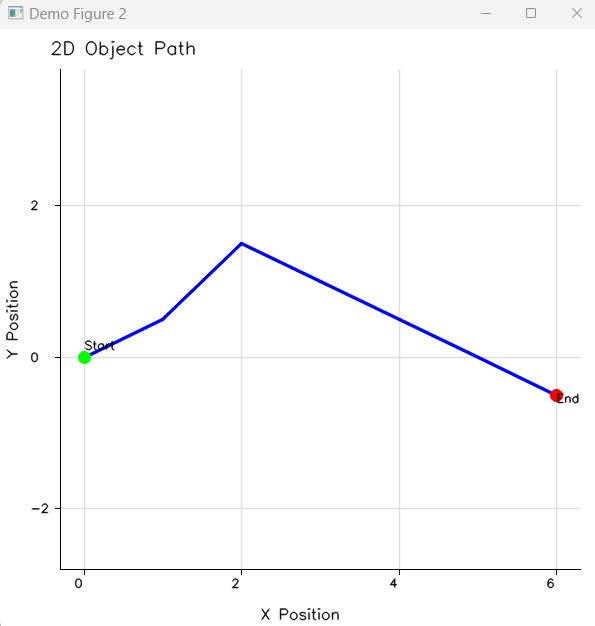
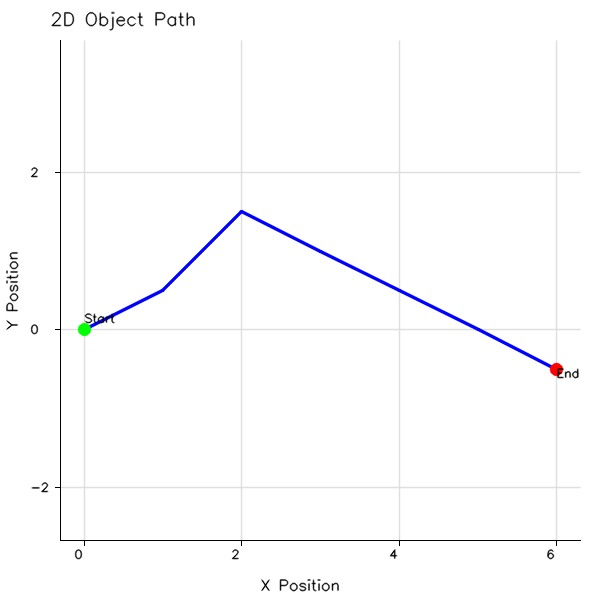
Prepare v0.1.0 release documentation
- document Windows and Linux test commands
- record known plotting limitations
- clarify public API behavior
- refresh example images from the current demo

diff --git a/include/figure.h b/include/figure.h
@@ -99,7 +99,8 @@ namespace mpocv
           * @param x Vector of x data values.
           * @param y Vector of y data values (must be the same length as @p x).
           * @param c Line color. Defaults to blue.
-          * @param thickness Line thickness in pixels.
+          * @param thickness Positive line thickness in pixels. Invalid values are
+          *        not currently validated before rendering.
           * @param label Optional legend label.
           * @throws std::invalid_argument If @p x and @p y have different lengths.
           * @throws std::invalid_argument If any coordinate is not finite.
@@ -119,7 +120,8 @@ namespace mpocv
          * @param x Vector of x data values.
          * @param y Vector of y data values (must be the same length as @p x).
          * @param c Line color. Defaults to blue.
-         * @param thickness Line thickness in pixels.
+         * @param thickness Positive line thickness in pixels. Invalid values are
+         *        not currently validated before rendering.
          * @param label Optional legend label.
          * @throws std::invalid_argument If @p x and @p y have different lengths.
          * @throws std::invalid_argument If any coordinate is not finite.
@@ -138,7 +140,8 @@ namespace mpocv
          * @param x Vector of x data values.
          * @param y Vector of y data values (must be the same length as @p x).
          * @param c Marker color. Defaults to red.
-         * @param marker_size Size of the markers.
+         * @param marker_size Positive marker radius in pixels. Invalid values are
+         *        not currently validated before rendering.
          * @param label Optional legend label.
          * @throws std::invalid_argument If @p x and @p y have different lengths.
          * @throws std::invalid_argument If any coordinate is not finite.
@@ -157,7 +160,8 @@ namespace mpocv
          * @param x Vector of x data values.
          * @param y Vector of y data values (must be the same length as @p x).
          * @param c Marker color. Defaults to red.
-         * @param marker_size Size of the markers.
+         * @param marker_size Positive marker radius in pixels. Invalid values are
+         *        not currently validated before rendering.
          * @param label Optional legend label.
          * @throws std::invalid_argument If @p x and @p y have different lengths.
          * @throws std::invalid_argument If any coordinate is not finite.
@@ -186,8 +190,10 @@ namespace mpocv
          * @param y Data y coordinate.
          * @param msg Text message to display.
          * @param c Text color. Defaults to black.
-         * @param font_scale Scale factor for the text font.
-         * @param thickness Thickness of the text.
+         * @param font_scale Positive scale factor for the text font. Invalid values
+         *        are not currently validated before rendering.
+         * @param thickness Positive thickness of the text. Invalid values are not
+         *        currently validated before rendering.
          * @param ha Horizontal alignment.
          * @param va Vertical alignment.
          * @param label Optional legend label.
@@ -281,6 +287,7 @@ namespace mpocv
          * @param style Line and fill styling for the polygon.
          * @param label Optional legend label.
          * @throws std::invalid_argument If any coordinate is not finite.
+         * @note Empty or mismatched coordinate vectors are currently ignored.
          */
         void polygon(const std::vector<double>& x, const std::vector<double>& y,
             const ShapeStyle& style,

diff --git a/src/figure.cpp b/src/figure.cpp
@@ -25,7 +25,7 @@ namespace mpocv
 {
 
     /* --------------------------------------------------------------------------
-     *  Public?facing API
+     *  Public-facing API
      * ------------------------------------------------------------------------*/
 
      // ---------------------------------------------------------------------------
@@ -283,7 +283,7 @@ namespace mpocv
         }
         fix_ranges(axes_);
 
-        /* 2) equal?scale -------------------------------------------------------- */
+        /* 2) equal-scale -------------------------------------------------------- */
         if (axes_.equal_scale)
         {
             const double xrange = axes_.xmax - axes_.xmin;

diff --git a/include/plot_command.h b/include/plot_command.h
@@ -74,9 +74,9 @@ namespace mpocv
     struct ShapeStyle
     {
         Color line_color{ Color::Black() };  ///< Stroke color
-        float thickness{ 1.0f };             ///< Stroke thickness in pixels
+        float thickness{ 1.0f };             ///< Stroke thickness in pixels; values above zero draw an outline
         Color fill_color{ 255, 255, 255 };   ///< Fill color (RGB)
-        float fill_alpha{ 1.0f };            ///< Fill alpha (0 = transparent, 1 = opaque)
+        float fill_alpha{ 1.0f };            ///< Fill alpha (0 = transparent, 1 = opaque); callers should keep it in [0, 1]
     };
 
     /**

diff --git a/README.md b/README.md
@@ -73,6 +73,12 @@ Run the demo with:
 .\build\Release\matplotopencv_demo.exe
 ```
 
+Run the automated tests with:
+
+```powershell
+ctest --test-dir build -C Release --output-on-failure
+```
+
 If OpenCV is installed elsewhere, override the cached path without editing the
 project files:
 
@@ -92,6 +98,12 @@ Install OpenCV and make its CMake package discoverable, then run:
 cmake -S . -B build -DCMAKE_BUILD_TYPE=Release
 cmake --build build
 ./build/matplotopencv_demo
+```
+
+Run the automated tests with:
+
+```bash
+ctest --test-dir build --output-on-failure
 ```
 
 The Windows-only local path file is not loaded on Linux. If OpenCV is installed
@@ -128,11 +140,12 @@ MatPlotOpenCV/
 |-- docs/
 |-- images/
 |-- include/
-`-- src/
+|-- src/
+`-- tests/
 ```
 
-The demo is currently the manual validation program. Automated MatPlotOpenCV
-tests will be introduced during the stabilization work.
+The `matplotopencv_tests` executable provides automated regression coverage.
+The demo remains the manual visual-validation program.
 
 ## Limitations
 
@@ -141,8 +154,20 @@ tests will be introduced during the stabilization work.
   implemented by this library.
 - Concurrent access to one `Figure` is not safe. HighGUI may also require calls
   from the application's UI thread, depending on the OpenCV backend.
-- Coordinate vectors passed to `plot()`, `scatter()`, and `polygon()` must have
-  matching lengths.
+- Coordinate vectors passed to `plot()` and `scatter()` must have matching
+  lengths; mismatched vectors throw `std::invalid_argument`. `polygon()`
+  currently ignores empty or mismatched coordinate vectors.
+- Circles, rotated rectangles, and rotated ellipses represent their documented
+  data-space geometry accurately when equal scaling is enabled. With unequal
+  x- and y-axis scales, their screen-space rendering is not an exact affine
+  transform of the data-space shape.
+- Legend swatches for labeled shapes currently use the default command color
+  instead of the shape's configured line or fill color.
+- Tick labels use one decimal place for intervals below one, so very small
+  ranges can display repeated labels.
+- Line thickness, marker size, text scale, text thickness, and `ShapeStyle`
+  numeric values are not fully validated before being passed to OpenCV. Use
+  positive, finite sizes and scales, and keep fill alpha in the range `[0, 1]`.
 
 ## License
 
